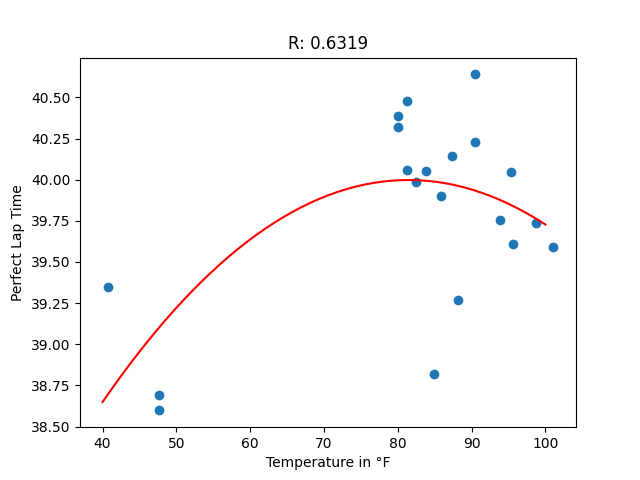
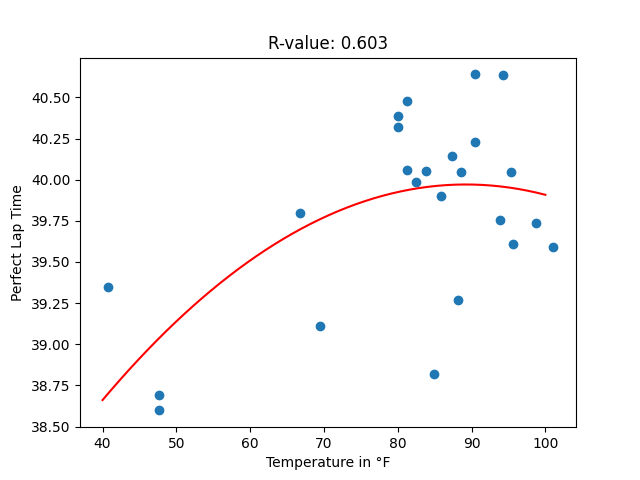
Sample Size Increase

diff --git a/backend/processing.py b/backend/processing.py
@@ -48,7 +48,7 @@ def doCalculation(date: str, time: str) -> float:
     # regressionX = linspace(40, 100)
     # plot(regressionX, mymodel(regressionX), color='red')
     
-    # title('R: ' + str(round(sqrt(r2_score(y, mymodel(x))), 4)))
+    # title('R-value: ' + str(round(sqrt(r2_score(y, mymodel(x))), 4)))
     # xlabel('Temperature in °F')
     # ylabel('Perfect Lap Time')
     # show()
